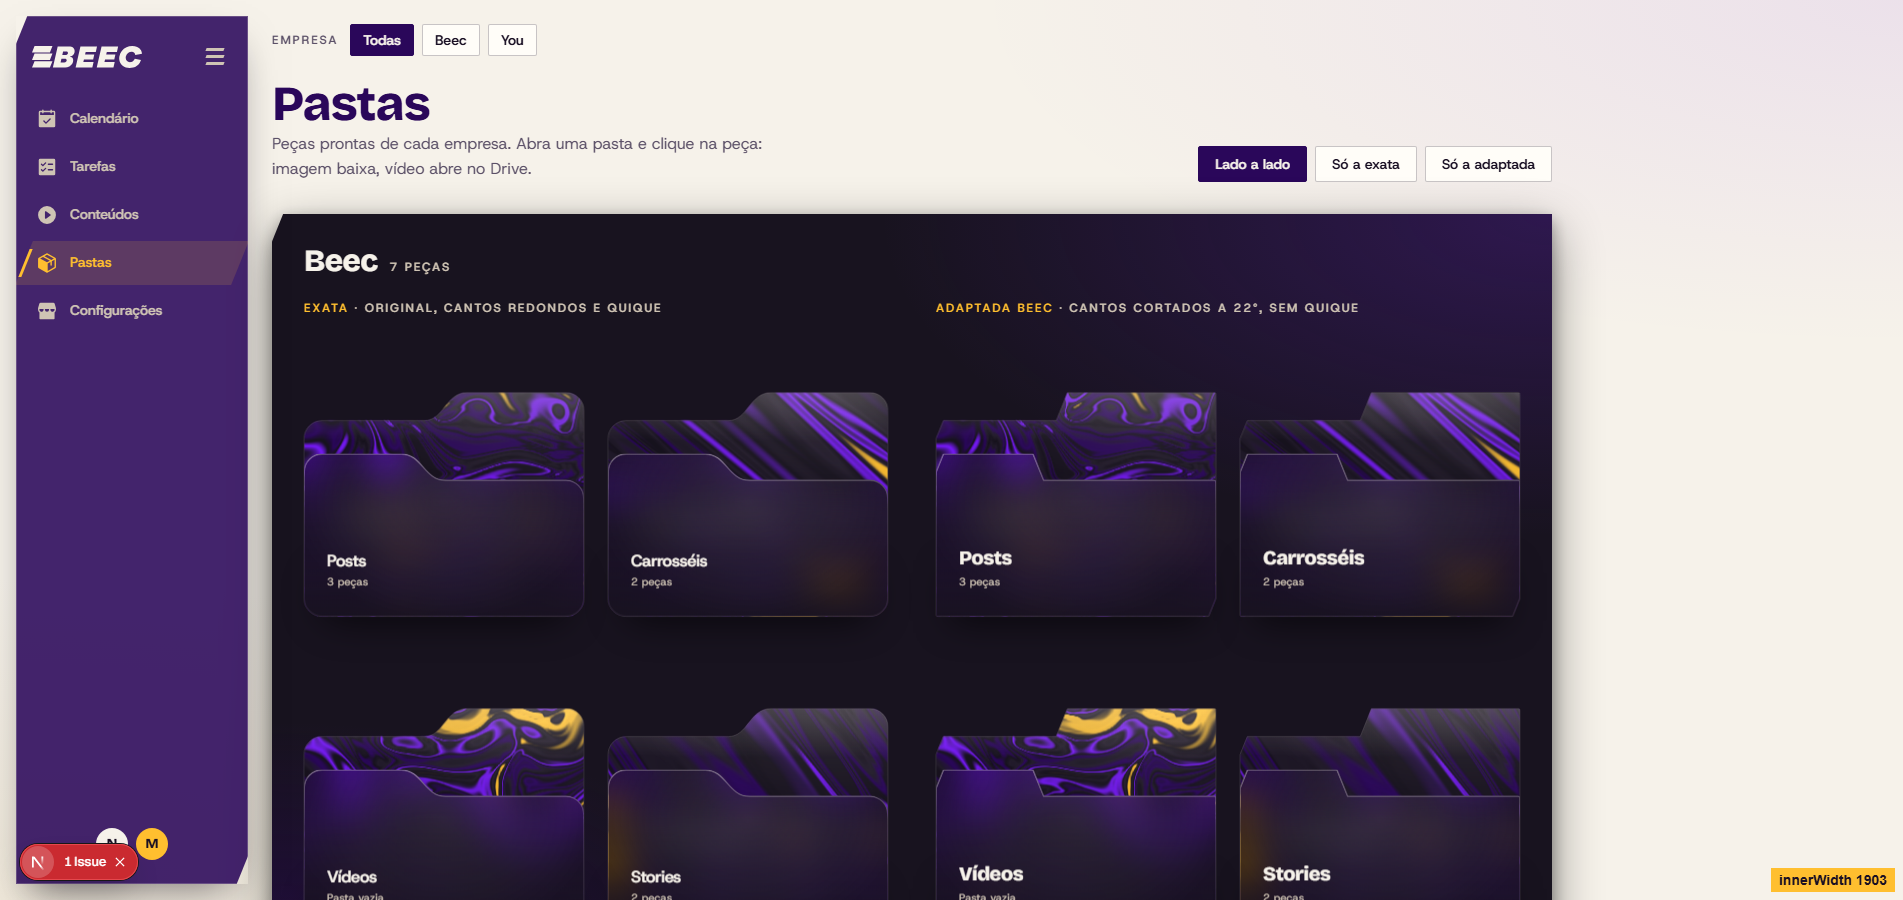
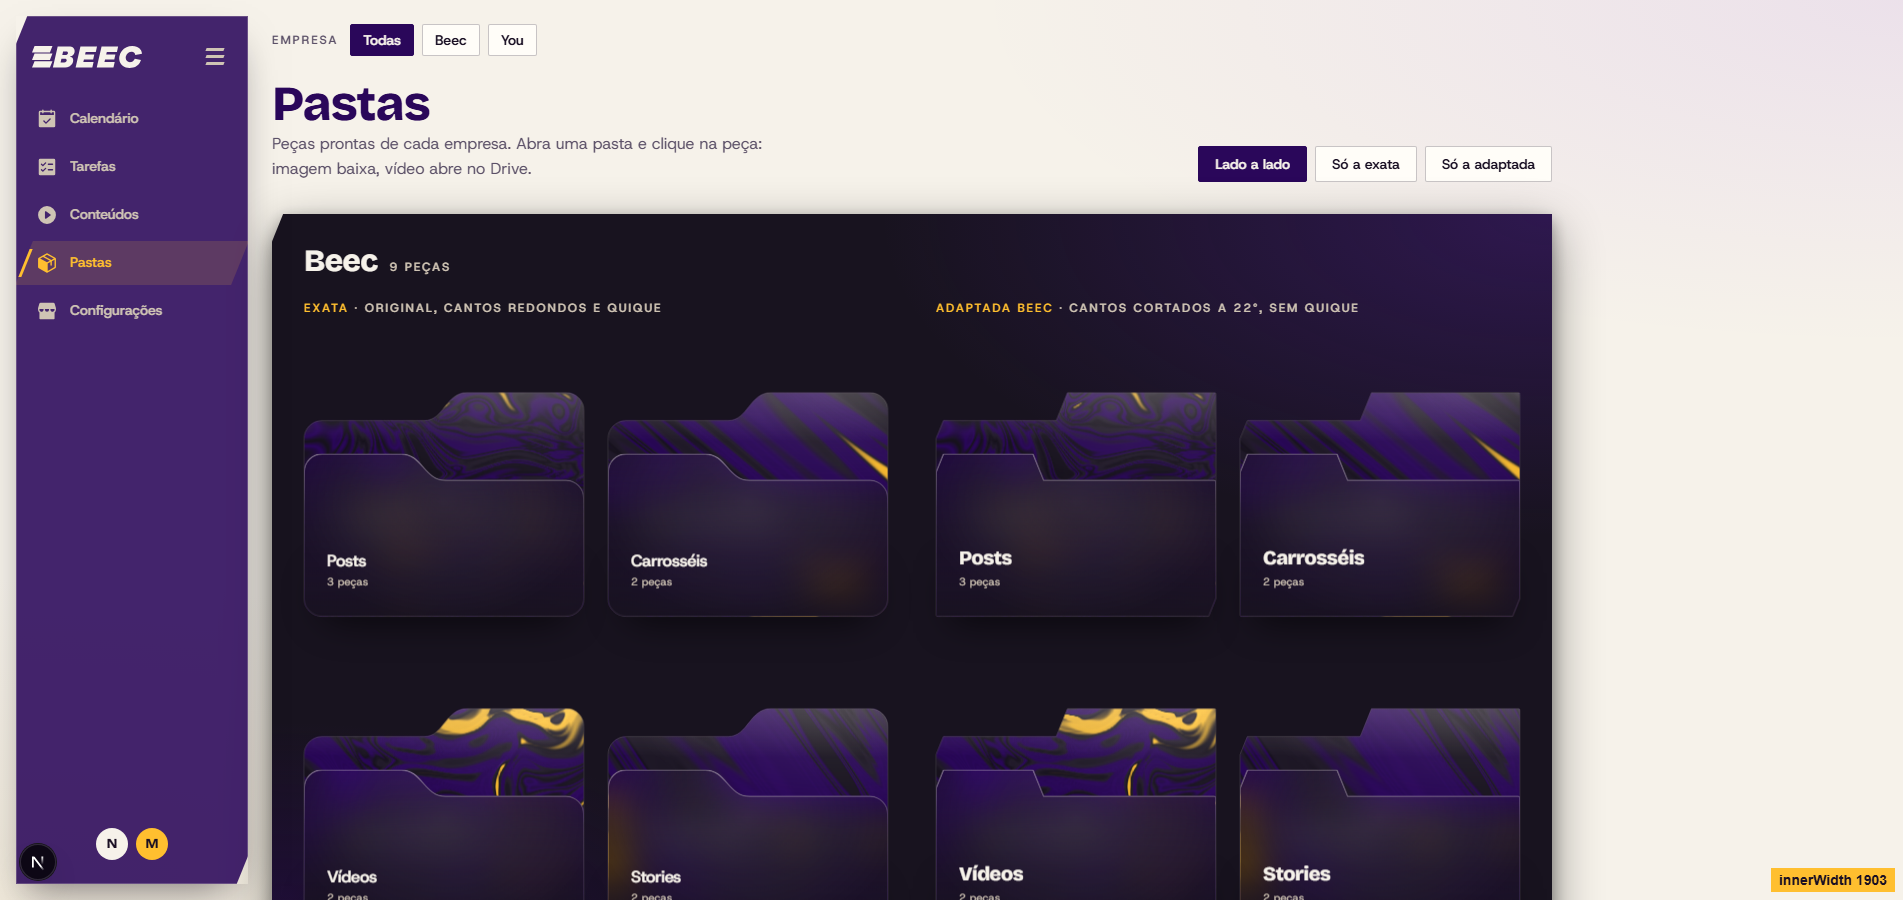
Pastas: tira o eletrico da arte escura

diff --git a/src/components/pastas/arte.ts b/src/components/pastas/arte.ts
@@ -14,13 +14,13 @@ export type ArtRecipe = {
 };
 
 // Só cores de beec-tokens.css: grafite, card escuro e roxo profundo fazem o líquido; o ouro entra como brilho (último degrau,
-// fino) e o elétrico só como filete fino (um degrau entre vários roxos, sem ocupar área).
-const G = "#18131F", C = "#221B2B", R = "#2A075A", E = "#7319F1", O = "#FFBF2F";
+// fino). Elétrico NÃO entra: na Beec ele é só no claro e estas pastas são escuras.
+const G = "#18131F", C = "#221B2B", R = "#2A075A", O = "#FFBF2F";
 export const RECEITAS = {
-  post: { style: "marble", colors: [G, C, R, G, R, C, G, C, R, G, E, G, C, R, G, O], scale: 0.66, warp: 3.2, angle: -0.5, gloss: 0.5, veins: 0.5 },
-  carrossel: { style: "streak", colors: [G, C, R, G, C, R, G, C, R, G, C, G, E, G, C, O], scale: 0.7, warp: 1.5, angle: -0.62, gloss: 0.3, veins: 0 },
-  video: { style: "marble", colors: [G, C, G, R, G, C, R, G, C, R, G, E, G, C, G, O], scale: 0.72, warp: 3.4, angle: 0.8, gloss: 0.5, veins: 0.55 },
-  story: { style: "streak", colors: [G, R, C, R, G, C, R, G, G, E, G, C, R, G, G, O], scale: 0.62, warp: 1.8, angle: 2.1, gloss: 0.35, veins: 0 },
+  post: { style: "marble", colors: [G, C, R, G, R, C, G, C, R, G, R, G, C, R, G, O], scale: 0.66, warp: 3.2, angle: -0.5, gloss: 0.5, veins: 0.5 },
+  carrossel: { style: "streak", colors: [G, C, R, G, C, R, G, C, R, G, C, R, R, R, C, O], scale: 0.7, warp: 1.5, angle: -0.62, gloss: 0.3, veins: 0 },
+  video: { style: "marble", colors: [G, C, G, R, G, C, R, G, C, R, R, R, R, C, G, O], scale: 0.72, warp: 3.4, angle: 0.8, gloss: 0.5, veins: 0.55 },
+  story: { style: "streak", colors: [G, R, C, R, G, C, R, R, R, R, G, C, R, G, G, O], scale: 0.62, warp: 1.8, angle: 2.1, gloss: 0.35, veins: 0 },
 } satisfies Record<string, ArtRecipe>;
 
 /** `#rgb` or `#rrggbb` to a triple. Anything unreadable comes back mid-grey. */
